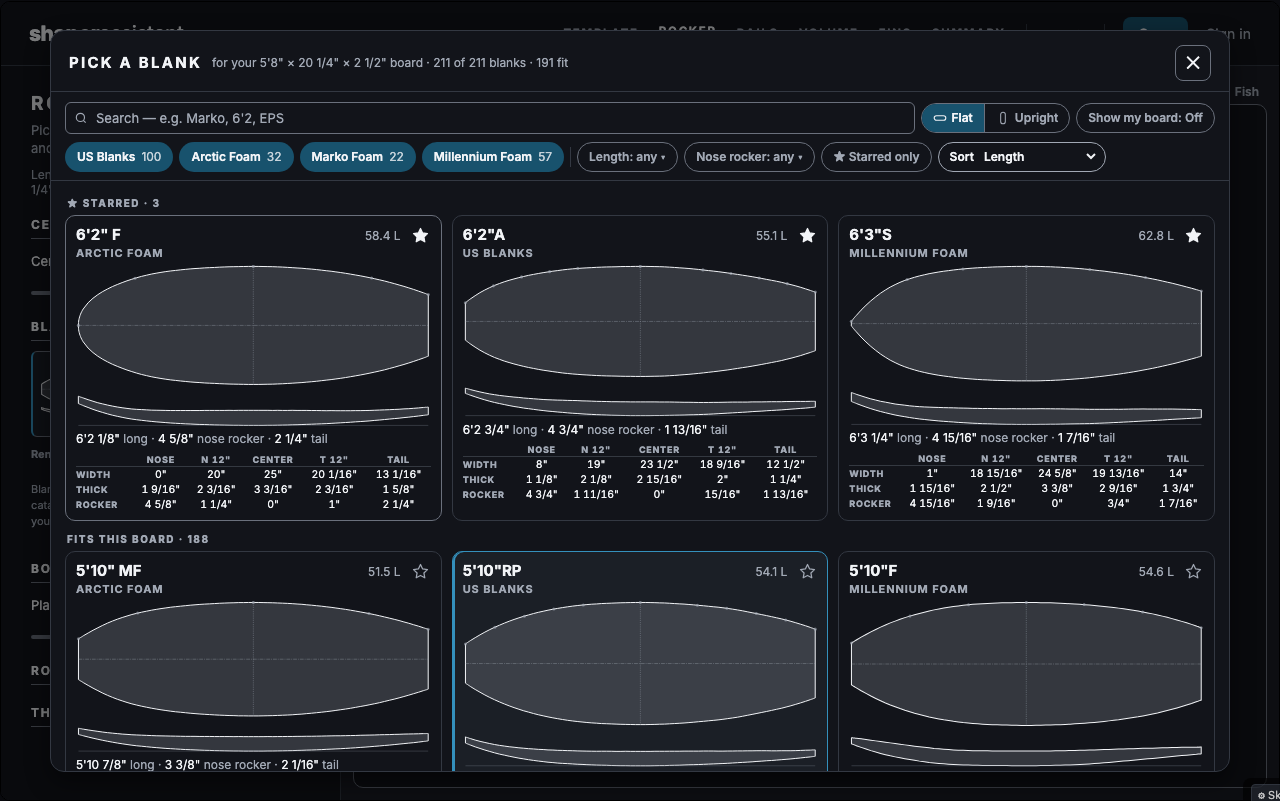
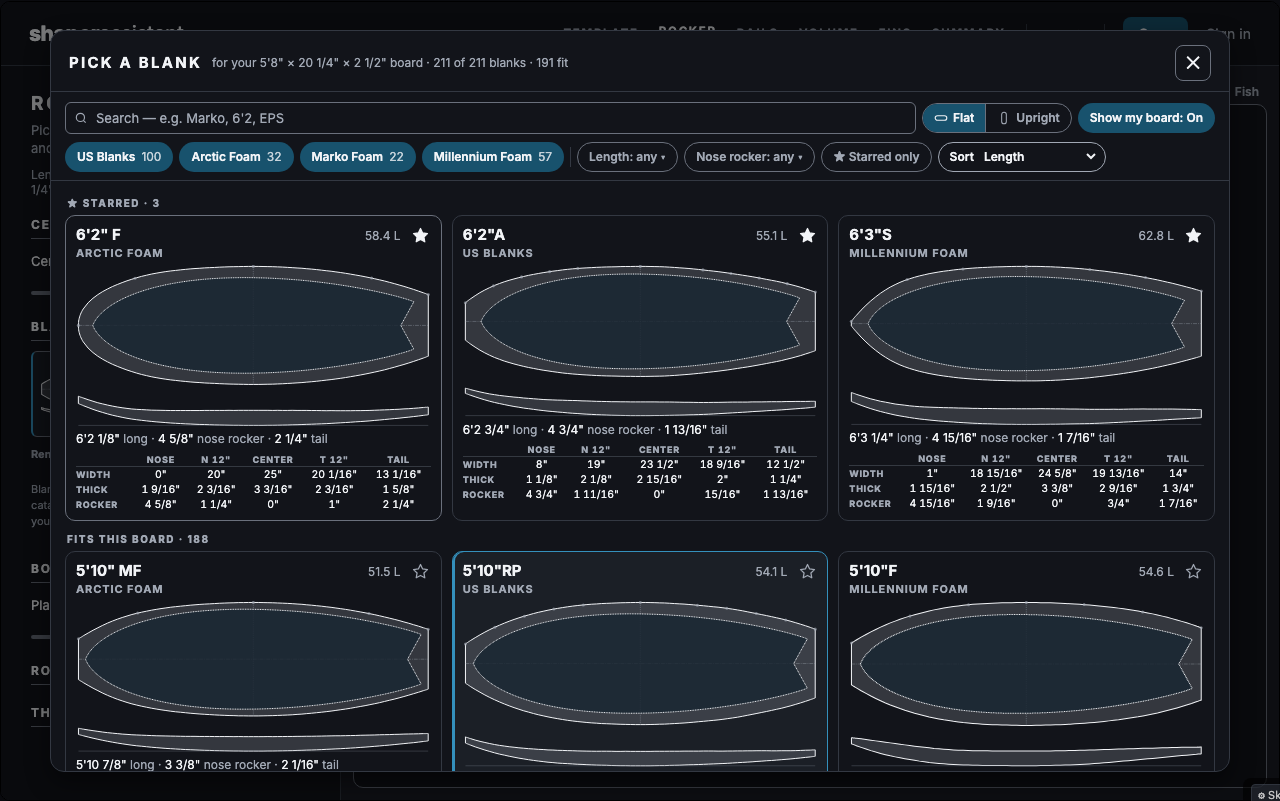
docs(sketch-015): Show my board starts on — every blank in the window shows your board drawn on it
The founder: "show my board default = on." The sketch, its notes and the copy on the founder's phone now open with
the board drawn dashed on every blank; the switch in the filter bar turns it off.

diff --git a/.planning/sketches/015-visual-blank-selector/index.html b/.planning/sketches/015-visual-blank-selector/index.html
@@ -316,7 +316,7 @@ const DRAWN = [["flat", "Lying flat"], ["phoneUp", "Upright on a phone only"], [
 const SCALES = [["fill", "Each blank fills its card"], ["one", "One scale for all"]];
 const DEFAULT_STARS = ["US Blanks|6'2\"A", "Arctic Foam|6'2\" F", "Millennium Foam|6'3\"S"].filter((id) => BY[id]);
 const DEFAULTS = {
-  variant: "b", device: "computer", drawn: "flat", board: "fish", units: "imperial", theme: "slate", scale: "fill", ghost: false,
+  variant: "b", device: "computer", drawn: "flat", board: "fish", units: "imperial", theme: "slate", scale: "fill", ghost: true,
   stars: DEFAULT_STARS,
   ui: { a: { tab: "blanks" }, b: { tab: "viewer", open: true }, c: { tab: "viewer", expanded: false, listOpen: true } },
   f: { q: "", hidden: [], len: null, nose: null, starOnly: false, sort: "length", open: null },
@@ -326,8 +326,8 @@ if (state.drawn !== "upright") state.drawn = "flat"; // round one's "upright on 
 state.scale = "fill"; // the founder's pick: each blank fills its card
 let scrollToBlank = true;
 let barOpen = false;
-try { const saved = JSON.parse(localStorage.getItem("sketch015") || "{}"); state = { ...state, ...saved, ui: { ...state.ui, ...(saved.ui || {}) }, f: { ...state.f, ...(saved.f || {}), open: null } }; } catch (e) {}
-function save() { try { localStorage.setItem("sketch015", JSON.stringify(state)); } catch (e) {} }
+try { const saved = JSON.parse(localStorage.getItem("sketch015-r2") || "{}"); state = { ...state, ...saved, ui: { ...state.ui, ...(saved.ui || {}) }, f: { ...state.f, ...(saved.f || {}), open: null } }; } catch (e) {}
+function save() { try { localStorage.setItem("sketch015-r2", JSON.stringify(state)); } catch (e) {} }
 
 /* ---------- small helpers ---------- */
 const esc = (s) => String(s).replace(/[&<>"]/g, (c) => ({ "&": "&amp;", "<": "&lt;", ">": "&gt;", '"': "&quot;" })[c]);
@@ -863,13 +863,13 @@ let rt = 0; window.addEventListener("resize", () => { clearTimeout(rt); rt = set
 
 const INTRO = {
   a: `<b>A — a BLANKS tab beside VIEWER and DATASHEET</b>, like TEMPLATE's WINGS tab. The sidebar's BLANK section becomes one button showing the blank on your board (its name and a thumbnail); it opens the tab. The tab is a catalogue page: every blank long enough for your board, starred ones first, drawn to scale with the maker's printed dims. Picking one puts it on your board and takes you back to VIEWER. Star a blank with the ☆ in its corner.`,
-  b: `<b>B — a popup window ★ the founder's pick (2026-10-15)</b>, opened from the blank button in the sidebar. Blanks lie flat by default on every device, each filling its card; the filter bar's Flat / Upright and Show my board switches change the view. Theme and units follow the app's own settings.`,
+  b: `<b>B — a popup window ★ the founder's pick (2026-10-15)</b>, opened from the blank button in the sidebar. Blanks lie flat by default on every device, each filling its card, with your board drawn on each; the filter bar's Flat / Upright and Show my board switches change the view. Theme and units follow the app's own settings.`,
   b0: `<b>B — a popup window</b> opened from the same blank button in the sidebar. The window is the same catalogue page, as big as the screen allows — on a phone it fills the screen. Picking a blank closes the window and loads it; ✕, Esc or a click outside closes it without changing anything. Star a blank with the ☆ in its corner.`,
   c: `<b>C — today's list, with drawings</b> (the founder's third option). The sidebar list stays as it is today — search, Fits / Won't fit, Show all — and each row gains a tiny drawing of the blank's outline and rocker and its nose and tail rocker. Starred blanks come first.`,
   all: `<b>All three side by side</b>, at the device picked in the bar above, each shrunk to fit. They still work: open B's window, switch A to its BLANKS tab, star a blank in one and see it starred in the others.`,
 };
 const NOTES = `<h2>Decided (the founder, 2026-10-15)</h2>
-<p><b>B, the popup.</b> Blanks lie flat by default on every device, each filling its card; a <b>Flat / Upright</b> switch and a <b>Show my board</b> on/off switch sit in the filter bar. Theme and units follow the app's own settings. <b>Stars</b> are saved on the shaper's account when signed in, in the browser when signed out, and the two join on signing in.</p>
+<p><b>B, the popup.</b> Blanks lie flat by default on every device, each filling its card; a <b>Flat / Upright</b> switch and a <b>Show my board</b> on/off switch (on by default) sit in the filter bar. Theme and units follow the app's own settings. <b>Stars</b> are saved on the shaper's account when signed in, in the browser when signed out, and the two join on signing in.</p>
 <h2>What this sketch asked</h2>
 <p>Where should a <b>visual blank picker</b> live on ROCKER — <b>A</b> a BLANKS tab beside VIEWER (like WINGS), <b>B</b> a popup window opened from the blank, or <b>C</b> today's list with a tiny drawing on every row? And on a phone, should the blanks lie flat or stand upright?</p>
 <h3>Every blank is real</h3>

diff --git a/.planning/sketches/MANIFEST.md b/.planning/sketches/MANIFEST.md
@@ -109,7 +109,7 @@ phone). The sketch draws all three placements on all 219 real blanks with the ap
 | 012 | blank-round-nose | When a blank prints its nose tip 0 wide, how should its outline reach the tip on ROCKER's top view? | **C — Parabola from the tip** (nothing to set) | viewer, rocker, top-view, blank, geometry |
 | 013 | wings-on-the-outline | How does a wing read on the TEMPLATE outline, and what happens to the tail behind it? | **A — Tail re-drawn to your block** (depth fades to nothing at the tail pod; two wings stack) | viewer, template, outline, wings, fins, geometry, controls |
 | 014 | wings-tab | With wings on a WINGS tab of the TEMPLATE page, where do the wing controls live, and how does the view scale for a stinger? | **B — The window grows with the wing** (sidebar swaps to the wing controls; grab points with Show construction) | template, wings, tabs, controls, sidebar, phone, interaction |
-| 015 | visual-blank-selector | Where does a picker that shows each blank live on ROCKER — a BLANKS tab, a popup window, or today's list with drawings — and do blanks lie flat or stand upright on a phone? | **B — A popup window** (flat by default, Flat / Upright and Show my board in the filter bar, each blank fills its card) | rocker, blank, picker, catalogue, favourites, tabs, popup, phone |
+| 015 | visual-blank-selector | Where does a picker that shows each blank live on ROCKER — a BLANKS tab, a popup window, or today's list with drawings — and do blanks lie flat or stand upright on a phone? | **B — A popup window** (flat by default, Flat / Upright and Show my board — on by default — in the filter bar, each blank fills its card) | rocker, blank, picker, catalogue, favourites, tabs, popup, phone |
 
 ## Decisions These Lock In
 
@@ -208,7 +208,7 @@ phone). The sketch draws all three placements on all 219 real blanks with the ap
    first, then Fits this board, then Won't fit this board greyed with the reason (too wide somewhere, or too thin at
    the center — no longer hidden); a search, the four makers (the Settings → Blank Makers setting itself), a length
    range, a nose-rocker range, ★ Starred only, a sort (length by default), and the Flat / Upright and Show my board
-   switches. Picking a blank closes the window and loads it; on a phone the window fills the screen. Theme and units
+   switches (Show my board on by default — "show my board default = on."). Picking a blank closes the window and loads it; on a phone the window fills the screen. Theme and units
    follow the app's settings. Stars live on the shaper's account when signed in (a nullable `user_preferences` column,
    migrated on production before the deploy), in the browser when signed out, joined on signing in.
 

diff --git a/.planning/sketches/015-visual-blank-selector/README.md b/.planning/sketches/015-visual-blank-selector/README.md
@@ -39,7 +39,8 @@ Theme and units follow the apps setting."*
   beside the search with its words; on a phone two icons beside the search).
 - **Each blank fills its card** (true proportion, never stretched). The one-scale option is dropped.
 - **Show my board** is an on/off switch in the filter bar (beside Flat / Upright on a computer, in the chip row on a
-  phone), off by default: your board's outline dashed on every blank where the app would place it.
+  phone), **on by default** (the founder, minutes later: "show my board default = on."): your board's outline dashed
+  on every blank where the app would place it.
 - **Theme and units follow the app's own settings** — the popup has no switches of its own for them.
 - **Stars**: saved on the shaper's account when signed in (a new nullable column on `user_preferences`, a list of
   blanks by maker and name, migrated on production before the deploy that reads it); in the browser alone when signed
